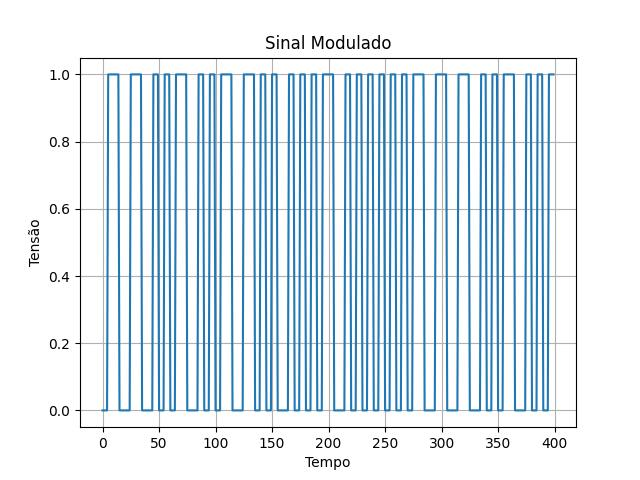
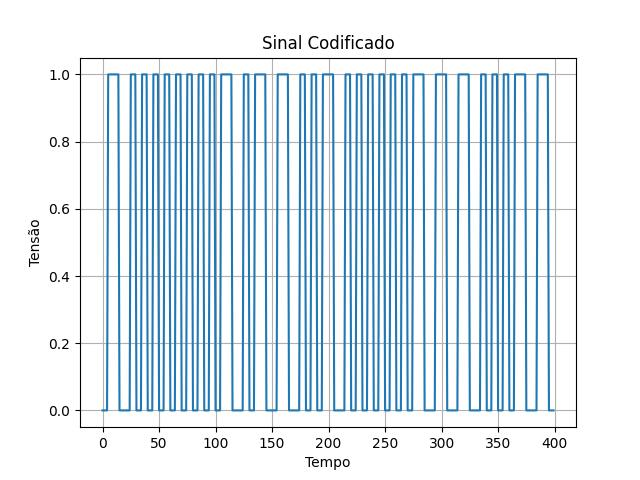
programa nao encerra no terminal

diff --git a/receptor.py b/receptor.py
@@ -50,7 +50,7 @@ class Receptor:
                 data = conn.recv(1024)
                 if not data:
                     break
-                print(f'Mensagem recebida: {data.decode('utf-8')}')
+                print(f"Mensagem recebida: {data.decode('utf-8')}")
                 if self.on_data_received:
                     self.on_data_received(data.decode('utf-8'))
                 resp = data.decode('utf-8') + " Cliente: " + addr[0] + ":" + str(addr[1])

diff --git a/camadaFisica.py b/camadaFisica.py
@@ -288,7 +288,7 @@ class GraphMaker():
             
         ax.set_xlabel("Tempo")
         ax.set_ylabel("Tensão")
-        ax.set_title("Sinal Modulado")
+        ax.set_title("Sinal Codificado")
         ax.grid(visible=True)
         ax.plot(x_axis, temp_bits)
         plt.savefig("manchester.jpg")
